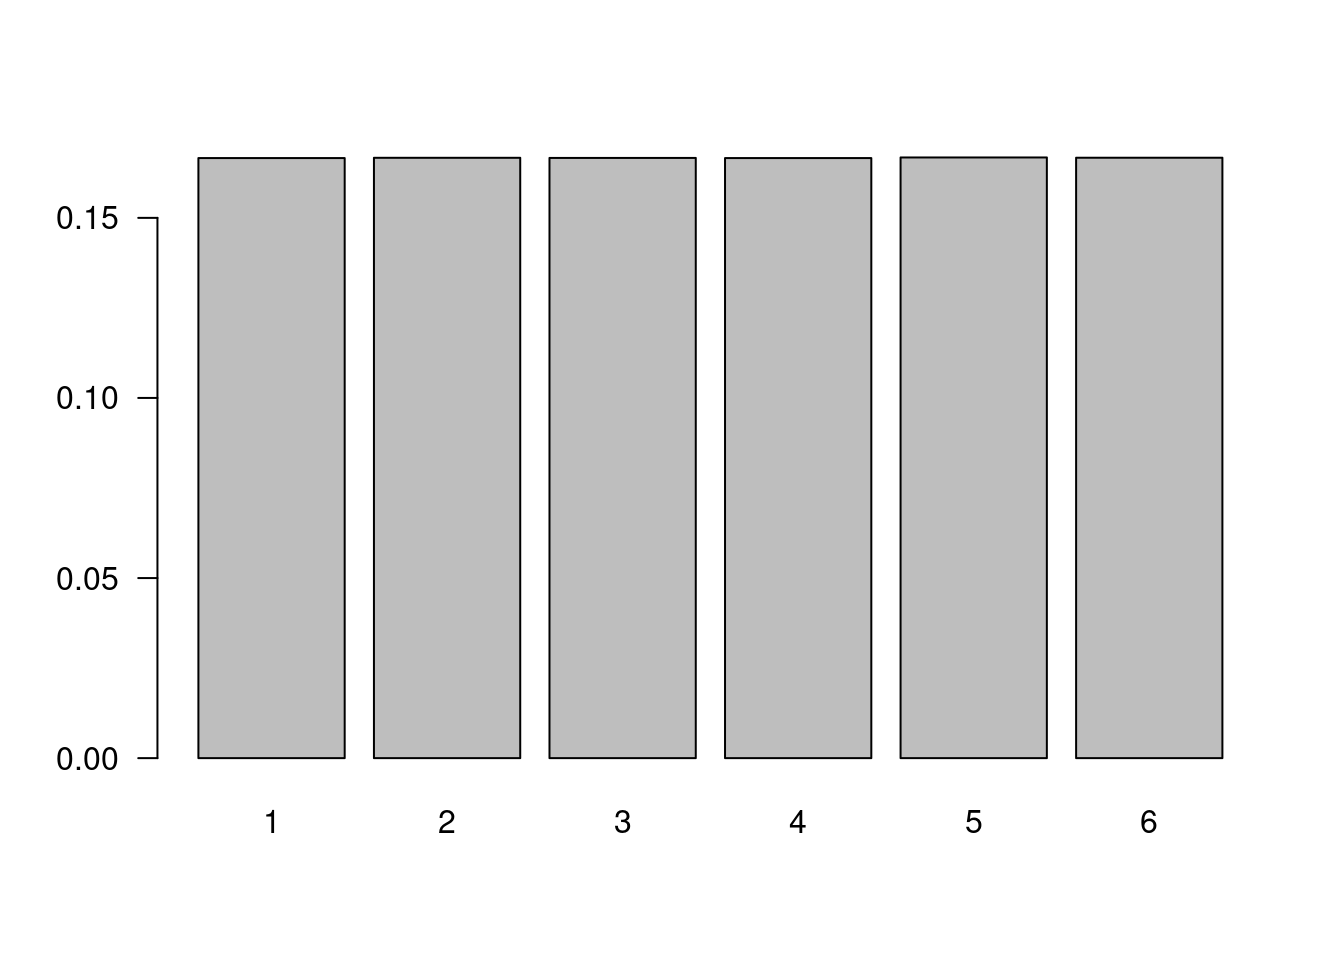
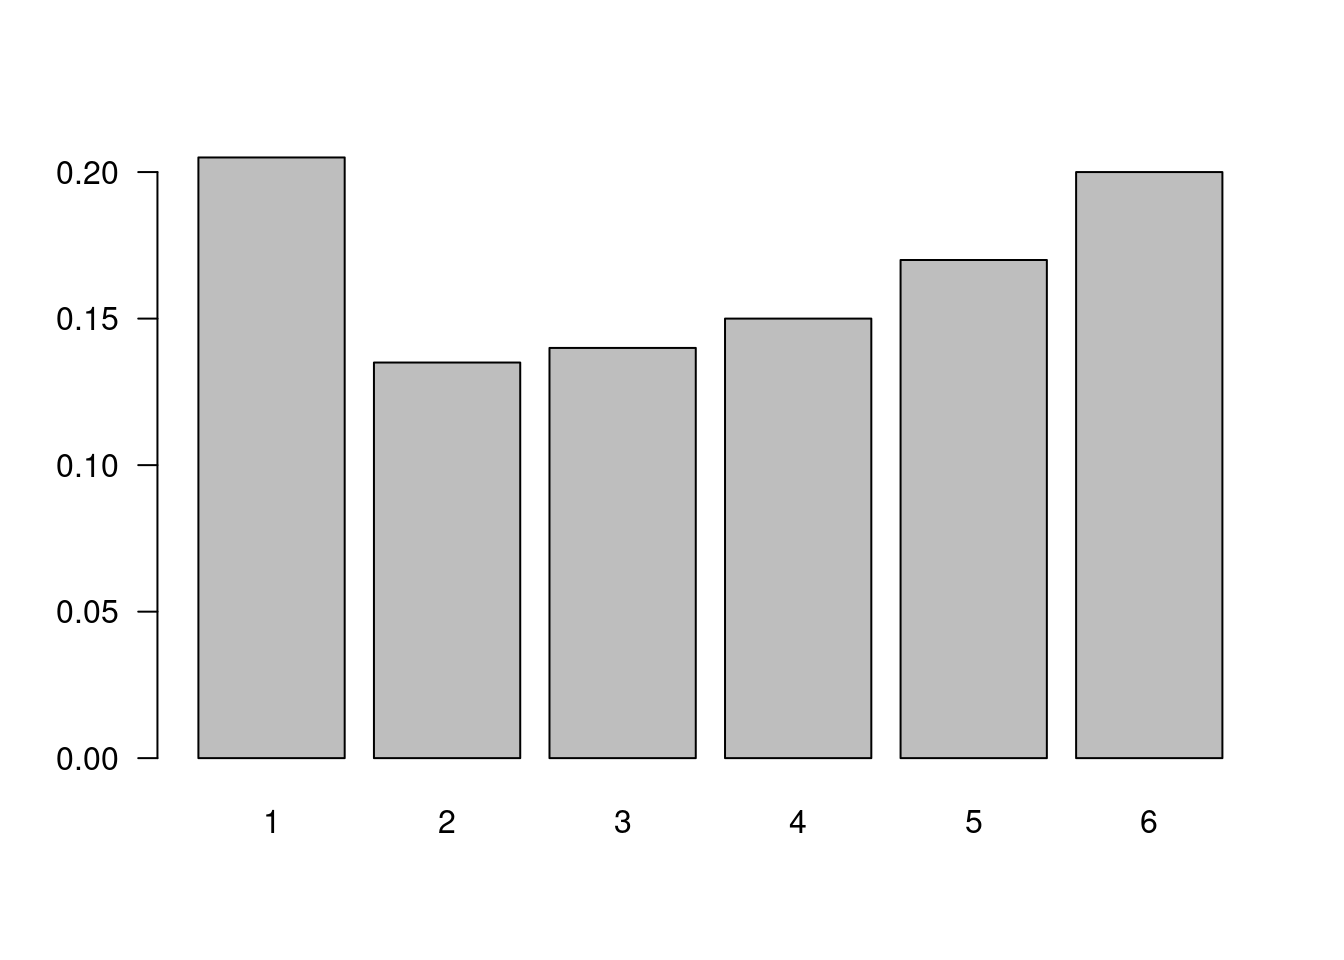
ajustes guia 201

diff --git a/codigo201.html b/codigo201.html
@@ -341,6 +341,9 @@ div.tocify {
     <li>
       <a href="Guia001.html">Guía 001</a>
     </li>
+    <li>
+      <a href="Guia002.html">Guía 002</a>
+    </li>
   </ul>
 </li>
 <li class="dropdown">
@@ -461,6 +464,9 @@ div.tocify {
     <li>
       <a href="codigo103.html">Código 1.3</a>
     </li>
+    <li>
+      <a href="codigo201.html">Código 2.1</a>
+    </li>
   </ul>
 </li>
 <li class="dropdown">
@@ -505,7 +511,9 @@ div.tocify {
 <p><span class="math display">\[S=\{ 2,3,4,5,6,7,8,9,10,11,12 \}\]</span></p>
 <div id="lanzamiento-de-un-dados" class="section level2">
 <h2><strong>Lanzamiento de un dados</strong></h2>
-<pre class="r"><code>n=20000000
+<p>Para simular el lanzamiento de un dado utilizaremos la función <code>sample(x, size, replace = FALSE, prob = NULL)</code>, con parámetros: <code>x</code> : valores del espacio muestral; <code>size</code> : tamaño de la muestra y <code>replace</code> : para determinar si la selección se realiza con remplazo o sin remplazo.</p>
+<p><code>sample(1:6,200, replace = TRUE)</code>, da un resultado una muestra de 200 valores enteros entre 1 y 6, con repetición.</p>
+<pre class="r"><code>n=200
 x=sample(1:6,n, replace = TRUE)
 td1=prop.table(table(x))
 barplot(td1, las=1)</code></pre>
@@ -513,6 +521,8 @@ barplot(td1, las=1)</code></pre>
 </div>
 <div id="lanzamiento-de-dos-dados" class="section level2">
 <h2><strong>Lanzamiento de dos dados</strong></h2>
+<p>En este caso utilizamos la función <code>sample</code> dos veces y se obtienen dos vectores que representan los resultados del dado1 y del dado2 respectivamente. Con estos resultados se construye una <code>data.frame</code> de dos columnas por n filas. En ella cada fila de dos componentes conforma una muestra con dos valores.</p>
+<p>Para obtener la suma de los valores de los dos dados, utilizamos la función <code>apply(X, MARGIN, FUN, ..., simplify = TRUE)</code> indicando con <code>MARGIN=1</code> que la operación (siguiente parámetro) se realizará por filas. Por último en el parámetro <code>FUN</code> se asigna la función a realizar. En resumen : <code>suma=apply(dados, 1, sum)</code></p>
 <pre class="r"><code>n=20000000
 d1=sample(1:6,n, replace = TRUE)
 d2=sample(1:6,n, replace = TRUE)
@@ -522,31 +532,38 @@ barplot(table(suma), las=1,cex.axis=0.7)</code></pre>
 <p><img src="codigo201_files/figure-html/unnamed-chunk-2-1.png" width="672" /></p>
 <pre class="r"><code>data.frame(prop.table(table(suma)))</code></pre>
 <pre><code>   suma       Freq
-1     2 0.02786280
-2     3 0.05562110
-3     4 0.08342965
-4     5 0.11103725
-5     6 0.13870810
-6     7 0.16682775
-7     8 0.13884290
-8     9 0.11104420
-9    10 0.08339190
-10   11 0.05550375
-11   12 0.02773060</code></pre>
+1     2 0.02774485
+2     3 0.05558590
+3     4 0.08339935
+4     5 0.11112265
+5     6 0.13895500
+6     7 0.16672050
+7     8 0.13875230
+8     9 0.11115205
+9    10 0.08328255
+10   11 0.05553230
+11   12 0.02775255</code></pre>
 <p>Procedimiento alternativo</p>
-<pre class="r"><code>t=sapply(1:200000, function(x){sum(sample(1:6,2,rep=T))})
+<pre class="r"><code>t=sapply(1:200, function(x){sum(sample(1:6,2,rep=T))})
 barplot(table(t), las=1, cex.axis=0.7)</code></pre>
 <p><img src="codigo201_files/figure-html/unnamed-chunk-3-1.png" width="672" /></p>
 </div>
 <div id="urna" class="section level2">
 <h2><strong>Urna</strong></h2>
-<p>Simulación de urna con: 3 bolas Blancas, 5 Rojas y 4 Azules</p>
-<p>1 representa las bolas blancas 2 representa las bolas rojas 3 representa las bolas azules</p>
+<p>Para simular la extracción de bolas de una urna, se utilizan las funciones sample y rep mostradas en el siguiente ejemplo :</p>
+<ul>
+<li>Simulación de urna con: 3 bolas Blancas, 5 Rojas y 4 Azules
+<ul>
+<li>1 representa las bolas blancas</li>
+<li>2 representa las bolas rojas</li>
+<li>3 representa las bolas azules</li>
+</ul></li>
+</ul>
 <pre class="r"><code>sample(c(1,2,3),2,rep=T,prob=c(3,5,4))</code></pre>
-<pre><code>[1] 3 1</code></pre>
+<pre><code>[1] 1 3</code></pre>
 <p>La misma simulación con palabras</p>
 <pre class="r"><code>sample(c(&quot;Blanca&quot;,&quot;Roja&quot;,&quot;Azul&quot;),2,rep=T,prob=c(3,5,4))</code></pre>
-<pre><code>[1] &quot;Roja&quot;   &quot;Blanca&quot;</code></pre>
+<pre><code>[1] &quot;Blanca&quot; &quot;Blanca&quot;</code></pre>
 </div>
 </div>
 <div id="tablas-de-contingencia" class="section level1">
@@ -569,13 +586,13 @@ Adminitrativo    20     30  50
 Operativo        60    140 200
 Vendedor        100     50 150
 Sum             180    220 400</code></pre>
-<p>Para convertirlas en probabilidades utilizamos la función <strong>prop.table()</strong></p>
+<p>Para convertirlas en probabilidades utilizamos la función <code>prop.table()</code></p>
 <pre class="r"><code>prop.table(m)</code></pre>
 <pre><code>              Mujer Hombre
 Adminitrativo  0.05  0.075
 Operativo      0.15  0.350
 Vendedor       0.25  0.125</code></pre>
-<p>Esta funcion tambien se utiliza para calcular las probabilidades condicionales por filas</p>
+<p>Esta función también se utiliza para calcular las probabilidades condicionales por filas</p>
 <pre class="r"><code>prop.table(m,1)</code></pre>
 <pre><code>                  Mujer    Hombre
 Adminitrativo 0.4000000 0.6000000
